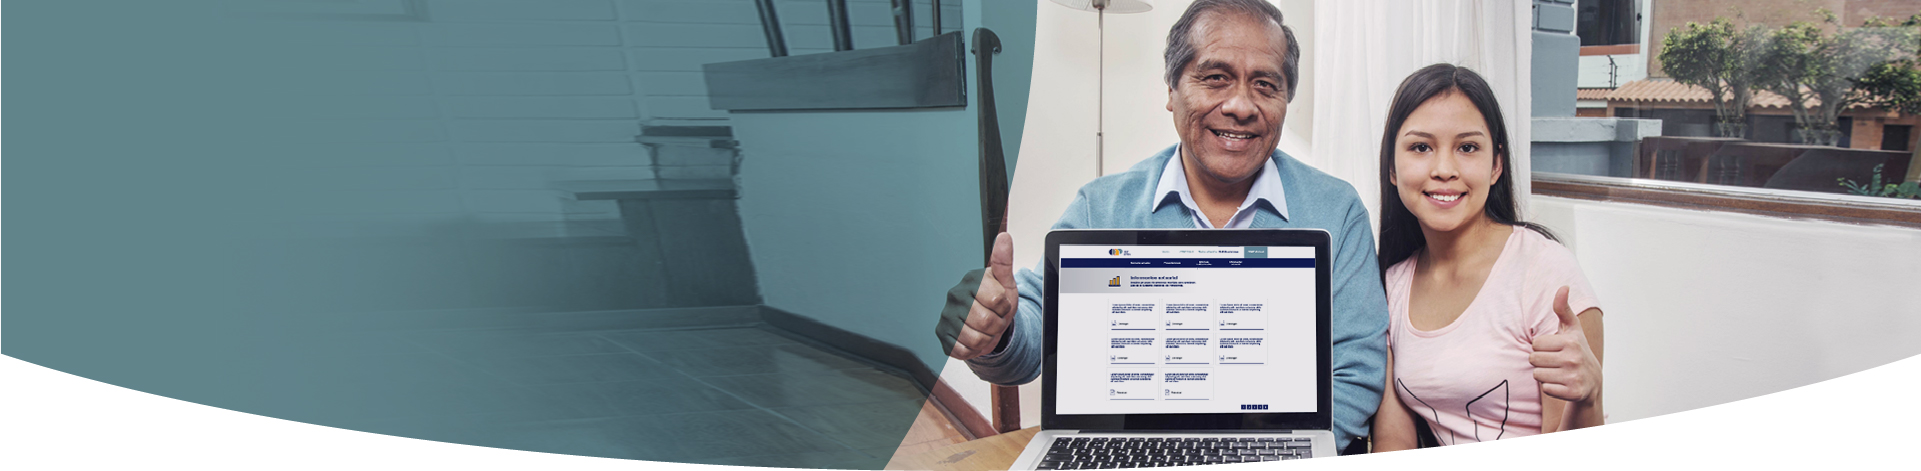
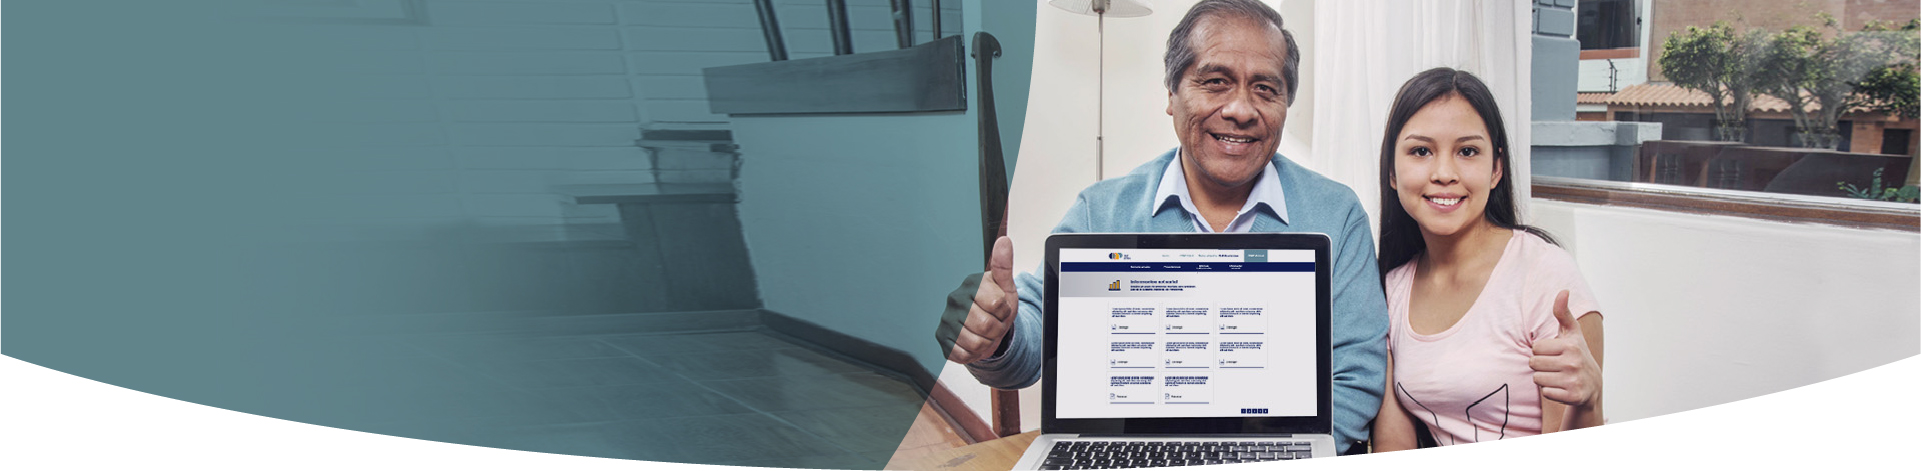
Ajustes 1 Infoteca

diff --git a/src/app/pages/publicaciones/informes-institucionales/informes-institucionales.component.html b/src/app/pages/publicaciones/informes-institucionales/informes-institucionales.component.html
@@ -10,7 +10,7 @@
     </ul>
 </aside>
 <section class="header-page" >
-    <article class="header-page__wrapper" style="background: linear-gradient(90deg, #c6c6c6, #ffffff);">
+    <article class="header-page__wrapper">
         <div class="header-page__content section">
             <img src="../../../../assets/images/informes-icon.svg" alt="Gráfico de barras">
             <h2 class="header-page__title" style="--hero-text-color: var(--white-color);">
@@ -19,6 +19,35 @@
         </div>
     </article>
 </section>
+
+<section class="age-distribution spacing-y section">
+    <div class="item-age-ini" >
+        <a [routerLink]="['/InformesInstitucionales/001']"> 
+        <h4 class="percent-age">SNP</h4>            
+        </a>
+    </div>  
+    <div class="item-age-ini" >
+        <a [routerLink]="['/InformesInstitucionales/002']"> 
+        <h4 class="percent-age">Regímenes pesqueros</h4>   
+        </a>         
+    </div>  
+    <div class="item-age-ini" >
+        <a [routerLink]="['/InformesInstitucionales/003']"> 
+        <h4 class="percent-age">Pagos por encargo</h4>    
+        </a>        
+    </div>  
+    <div class="item-age-ini" >
+        <a [routerLink]="['/InformesInstitucionales/004']"> 
+        <h4 class="percent-age">Reforma previsional</h4> 
+        </a>           
+    </div>  
+    <div class="item-age" >
+        <a [routerLink]="['/InformesInstitucionales/005']"> 
+        <h4 class="percent-age">Otros temas</h4>         
+        </a>   
+    </div>  
+</section>
+
 <section class="actuarial-info section section-personalice"  > 
     <h2 style="font-weight: 600;" class="onp-info-title onp-color-secondary">{{Title}}</h2>
 </section>
@@ -48,31 +77,3 @@
             </ul>
         </section>
 </section>
-<section class="age-distribution spacing-y section">
-    <div class="item-age-ini" >
-        <a [routerLink]="['/InformesInstitucionales/001']"> 
-        <h4 class="percent-age">SNP</h4>            
-        </a>
-    </div>  
-    <div class="item-age-ini" >
-        <a [routerLink]="['/InformesInstitucionales/002']"> 
-        <h4 class="percent-age">Regimenes pesqueros</h4>   
-        </a>         
-    </div>  
-    <div class="item-age-ini" >
-        <a [routerLink]="['/InformesInstitucionales/003']"> 
-        <h4 class="percent-age">Otras pagadurías</h4>    
-        </a>        
-    </div>  
-    <div class="item-age-ini" >
-        <a [routerLink]="['/InformesInstitucionales/004']"> 
-        <h4 class="percent-age">Reforma previsional</h4> 
-        </a>           
-    </div>  
-    <div class="item-age" >
-        <a [routerLink]="['/InformesInstitucionales/005']"> 
-        <h4 class="percent-age">Otros temas</h4>         
-        </a>   
-    </div>  
-</section>
-

diff --git a/src/app/pages/publicaciones/actuarial-information/actuarial-information.component.html b/src/app/pages/publicaciones/actuarial-information/actuarial-information.component.html
@@ -10,7 +10,7 @@
     </ul>
 </aside>
 <section class="header-page" >
-    <article class="header-page__wrapper" style="background: linear-gradient(90deg, #c6c6c6, #ffffff);">
+    <article class="header-page__wrapper">
         <div class="header-page__content section">
             <img src="../../../../assets/images/bars-icon.svg" alt="Gráfico de barras">
             <h2 class="header-page__title" style="--hero-text-color: var(--white-color);">
@@ -19,6 +19,25 @@
         </div>
     </article>
 </section>
+
+<section class="age-distribution spacing-y section">
+    <div class="item-age-ini" >
+        <a [routerLink]="['/ActuarialInformation/001']"> 
+        <h4 class="percent-age">Cálculos DL 19990</h4>      
+        </a>      
+    </div>  
+    <div class="item-age-ini" >
+        <a [routerLink]="['/ActuarialInformation/002']"> 
+        <h4 class="percent-age">Cálculo Ley 30003</h4>      
+        </a>      
+    </div>  
+    <div class="item-age" >
+        <a [routerLink]="['/ActuarialInformation/003']"> 
+        <h4 class="percent-age">Guía Técnica</h4>           
+        </a> 
+    </div>  
+</section>
+
 <section class="actuarial-info section section-personalice"  > 
     <h2 style="font-weight: 600;" class="onp-info-title onp-color-secondary">{{Title}}</h2>
 </section>
@@ -48,21 +67,4 @@
             </ul>
         </section>
 </section>
-<section class="age-distribution spacing-y section">
-    <div class="item-age-ini" >
-        <a [routerLink]="['/ActuarialInformation/001']"> 
-        <h4 class="percent-age">Cálculos DL 19990</h4>      
-        </a>      
-    </div>  
-    <div class="item-age-ini" >
-        <a [routerLink]="['/ActuarialInformation/002']"> 
-        <h4 class="percent-age">Cálculo Ley 30003</h4>      
-        </a>      
-    </div>  
-    <div class="item-age" >
-        <a [routerLink]="['/ActuarialInformation/003']"> 
-        <h4 class="percent-age">Guía Técnica</h4>           
-        </a> 
-    </div>  
-    
-</section>
+

diff --git a/src/app/pages/publicaciones/actuarial-information/actuarial-information.component.css b/src/app/pages/publicaciones/actuarial-information/actuarial-information.component.css
@@ -7,12 +7,14 @@
     display: grid;
     grid-template-columns: repeat(3,33.34%);
 }
+
 .age-distribution .section-title {
     grid-column: span 5;
 }
 .spacing-y {
-    padding: 1rem 0;
+    padding: 2.2rem 0 1rem;
 }
+
 .item-age {
     /*background-color: var(--gray-light-color);*/
     border-left: thin solid var(--second-color);
@@ -98,6 +100,11 @@ p {
     background-size: cover;
     background-position: center;
     background-attachment: var(--hero-attachment);
+}
+
+.header-page__wrapper {
+    background-image: url(../../../../assets/images/facil/bg-top-infoteca.png);
+    background-repeat: repeat-y;
 }
 
 .header-page__content {
@@ -256,18 +263,19 @@ ul.top-menu li a:hover {
 
 .card-download__wrapper {
     display: flex;
-    justify-content: space-around;
-    align-items: center;
-    border-bottom: 1.5px solid var(--second-color);
+    flex-direction: column;
+    justify-content: flex-start;
+    align-items: flex-start;
+    border-bottom: 2px solid var(--second-color);
     padding-bottom: 0.5rem;
 }
 
 .card-download__details {
     font-weight: 400;
+    padding-bottom: 2rem;
 }
 
 .card-download__icon {
-    padding-left: 1rem;
     text-align: center;
     display: flex;
     flex-direction: column;

diff --git a/src/app/pages/publicaciones/informes-institucionales/informes-institucionales.component.css b/src/app/pages/publicaciones/informes-institucionales/informes-institucionales.component.css
@@ -11,7 +11,7 @@
     grid-column: span 5;
 }
 .spacing-y {
-    padding: 1rem 0;
+    padding: 2.2rem 0 1rem;
 }
 .item-age {
     /*background-color: var(--gray-light-color);*/
@@ -105,6 +105,11 @@ p {
     justify-content: center;
     align-items: center;
     padding: 1.2rem 0;
+}
+
+.header-page__wrapper {
+    background-image: url(../../../../assets/images/facil/bg-top-infoteca.png);
+    background-repeat: repeat-y;
 }
 
 .header-page__content img {
@@ -256,18 +261,19 @@ ul.top-menu li a:hover {
 
 .card-download__wrapper {
     display: flex;
-    justify-content: space-around;
-    align-items: center;
-    border-bottom: 1.5px solid var(--second-color);
+    flex-direction: column;
+    justify-content: flex-start;
+    align-items: flex-start;
+    border-bottom: 2px solid var(--second-color);
     padding-bottom: 0.5rem;
 }
 
 .card-download__details {
     font-weight: 400;
+    padding-bottom: 2rem;
 }
 
 .card-download__icon {
-    padding-left: 1rem;
     text-align: center;
     display: flex;
     flex-direction: column;

diff --git a/src/app/pages/publicaciones/memoriales-anuales/memoriales-anuales.component.css b/src/app/pages/publicaciones/memoriales-anuales/memoriales-anuales.component.css
@@ -64,7 +64,12 @@ p {
     display: flex;
     justify-content: center;
     align-items: center;
-    padding: 1.2rem 0;
+    padding: 1.2rem 0;   
+}
+
+.header-page__wrapper {
+    background-image: url(../../../../assets/images/facil/bg-top-infoteca.png);
+    background-repeat: repeat-y;
 }
 
 .header-page__content img {
@@ -216,18 +221,19 @@ ul.top-menu li a:hover {
 
 .card-download__wrapper {
     display: flex;
-    justify-content: space-around;
-    align-items: center;
-    border-bottom: 1.5px solid var(--second-color);
+    flex-direction: column;
+    justify-content: flex-start;
+    align-items: flex-start;
+    border-bottom: 2px solid var(--second-color);
     padding-bottom: 0.5rem;
 }
 
 .card-download__details {
     font-weight: 400;
+    padding-bottom: 2rem;
 }
 
 .card-download__icon {
-    padding-left: 1rem;
     text-align: center;
     display: flex;
     flex-direction: column;

diff --git a/src/app/pages/publicaciones/presentaciones/presentaciones.component.css b/src/app/pages/publicaciones/presentaciones/presentaciones.component.css
@@ -216,23 +216,29 @@ ul.top-menu li a:hover {
 
 .card-download__wrapper {
     display: flex;
-    justify-content: space-around;
-    align-items: center;
-    border-bottom: 1.5px solid var(--second-color);
+    flex-direction: column;
+    justify-content: flex-start;
+    align-items: flex-start;
+    border-bottom: 2px solid var(--second-color);
     padding-bottom: 0.5rem;
 }
 
 .card-download__details {
     font-weight: 400;
+    margin-top: 0.5rem;
 }
 
 .card-download__icon {
-    padding-left: 1rem;
+    margin-top: 1rem;
     text-align: center;
     display: flex;
     flex-direction: column;
     align-items: center;
     font-size: 0.7rem;
+}
+
+.card-date {
+    margin-top: 1rem;
 }
 
 .card-download__icon img {

diff --git a/src/app/pages/publicaciones/presentaciones/presentaciones.component.html b/src/app/pages/publicaciones/presentaciones/presentaciones.component.html
@@ -27,8 +27,8 @@
                 <div class="card-download__details">
                     {{item.description}}
                 </div>                
-                <div class="card-download__details">
-                    {{item.date}}
+                <div class="card-download__details card-date">
+                    Fecha: {{item.date}}
                 </div>
                 <div class="card-download__icon">
                     <a href="{{this.urlFiles+item.url}}" target="_blank"><img src="../../../../assets/images/file-download-icon.svg" alt="Descargar"></a>

diff --git a/src/app/pages/publicaciones/memoriales-anuales/memoriales-anuales.component.html b/src/app/pages/publicaciones/memoriales-anuales/memoriales-anuales.component.html
@@ -10,7 +10,7 @@
     </ul>
 </aside>
 <section class="header-page" >
-    <article class="header-page__wrapper" style="background: linear-gradient(90deg, #c6c6c6, #ffffff);">
+    <article class="header-page__wrapper">
         <div class="header-page__content section">
             <img src="../../../../assets/images/memoraial-icon.svg" alt="Gráfico de barras">
             <h2 class="header-page__title" style="--hero-text-color: var(--white-color);">

diff --git a/src/app/pages/inicio/inicio.component.html b/src/app/pages/inicio/inicio.component.html
@@ -137,7 +137,7 @@
         style="margin-bottom: 0.45rem"
       />
       <div class="card-title">
-        <h2 class="h2-publicaciones">Publicaciones</h2>
+        <h2 class="h2-publicaciones">Infoteca</h2>
       </div>
     </div>
     <div class="card-trig" onmouseover="showCard3()" onmouseout="hideCard3()">
